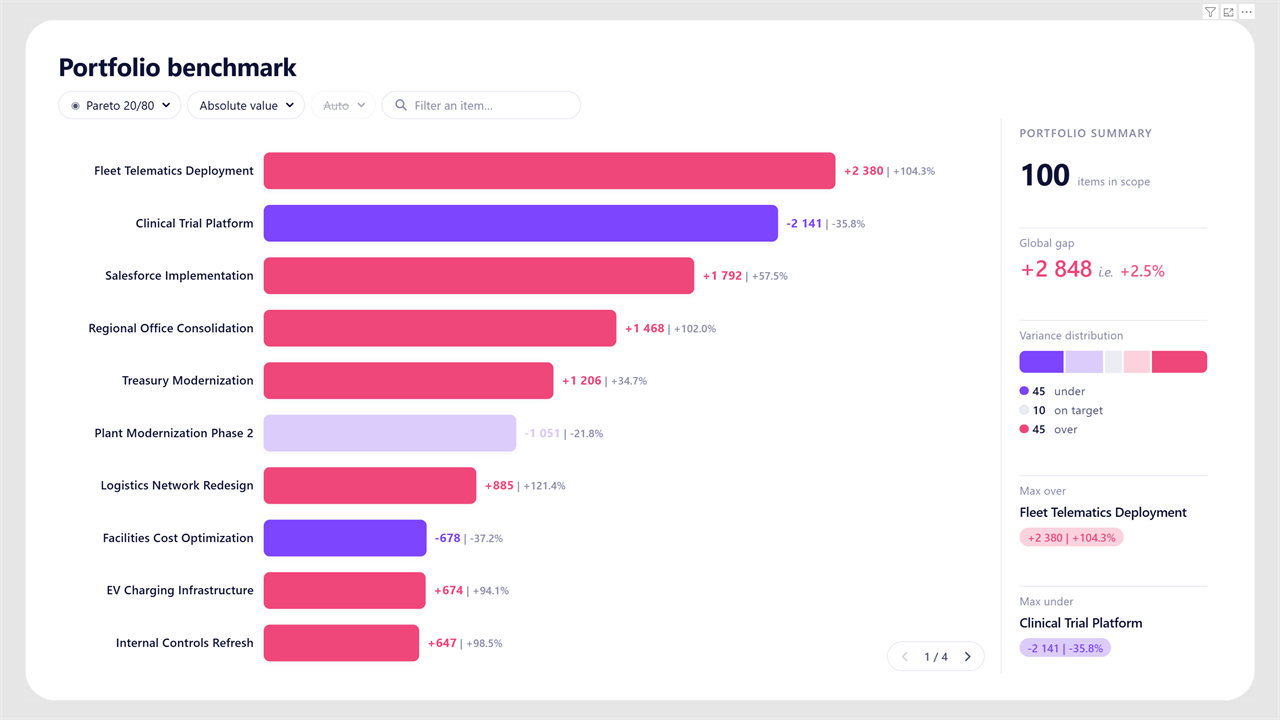
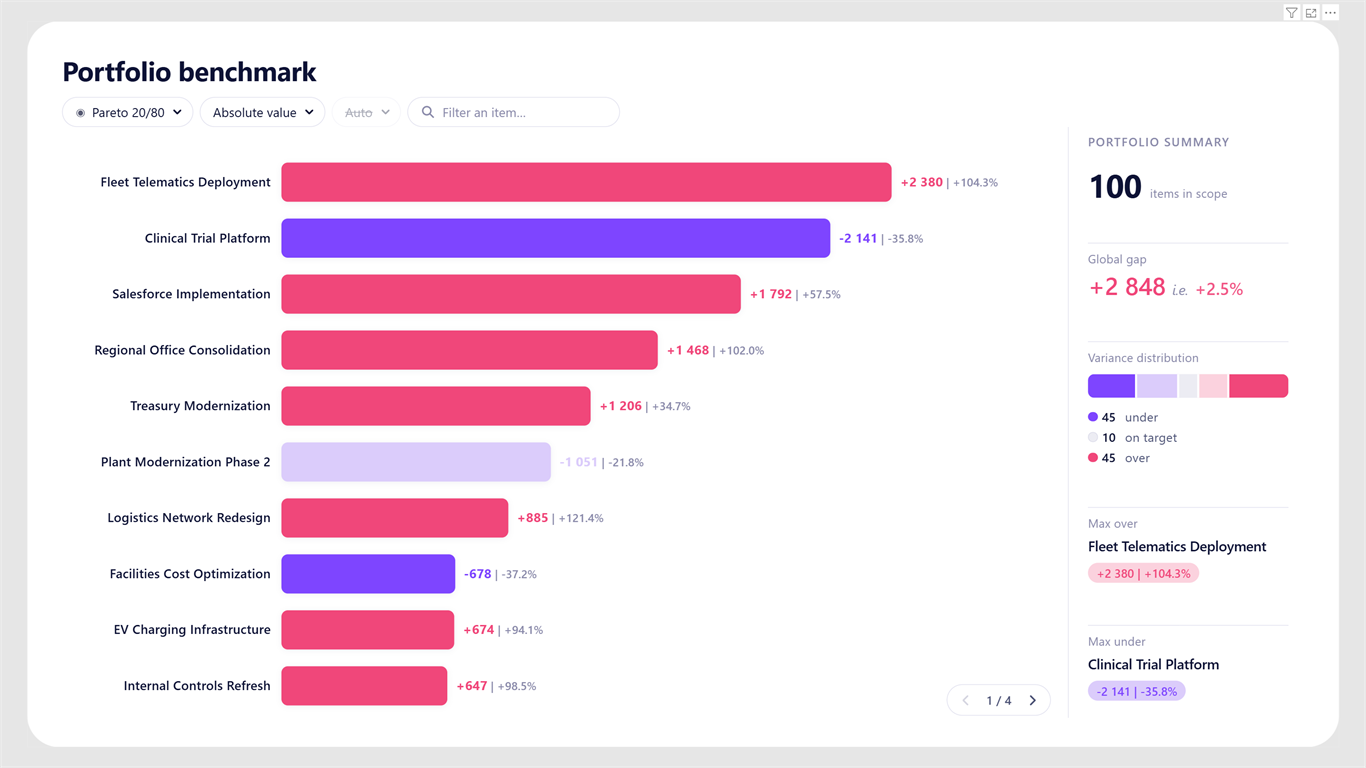
Fix marketplace screenshot dimensions: 1280x720 -> 1366x768
Microsoft AppSource Partner Center requires Power BI visual screenshots
at exactly 1366x768. Re-rendered all four screenshots from the original
captures via PowerShell + System.Drawing bicubic interpolation.

diff --git a/marketplace/README.md b/marketplace/README.md
@@ -4,7 +4,7 @@ Files used for the Microsoft AppSource Partner Center listing of **Benchmark Bar
 
 ## Screenshots
 
-All in canonical Power BI marketplace size: **1280 × 720 px PNG**.
+All in the size required by Microsoft AppSource Partner Center: **1366 × 768 px PNG**.
 
 | File | Mode shown | Description |
 |------|------------|-------------|
